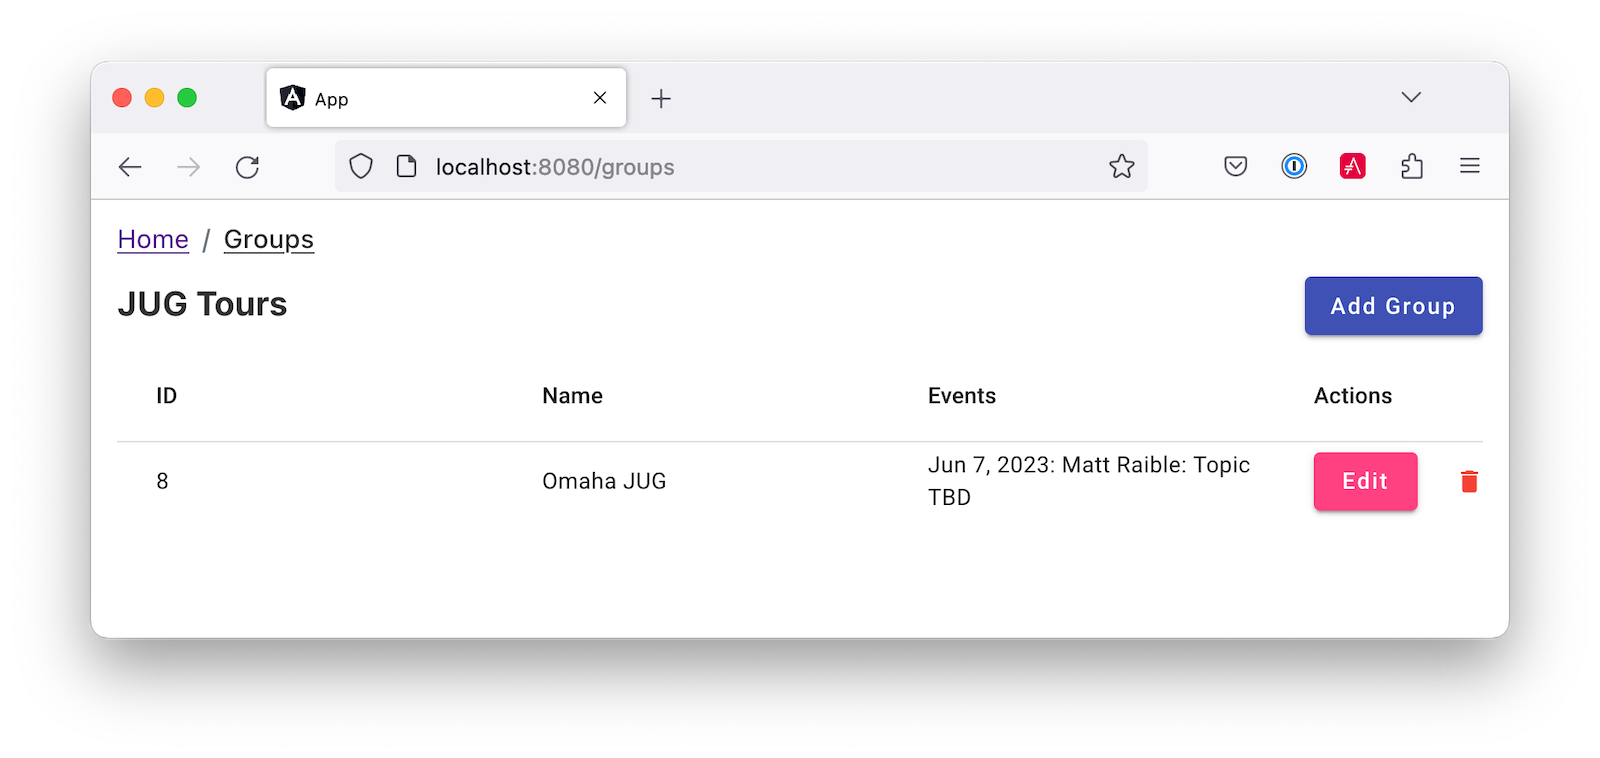
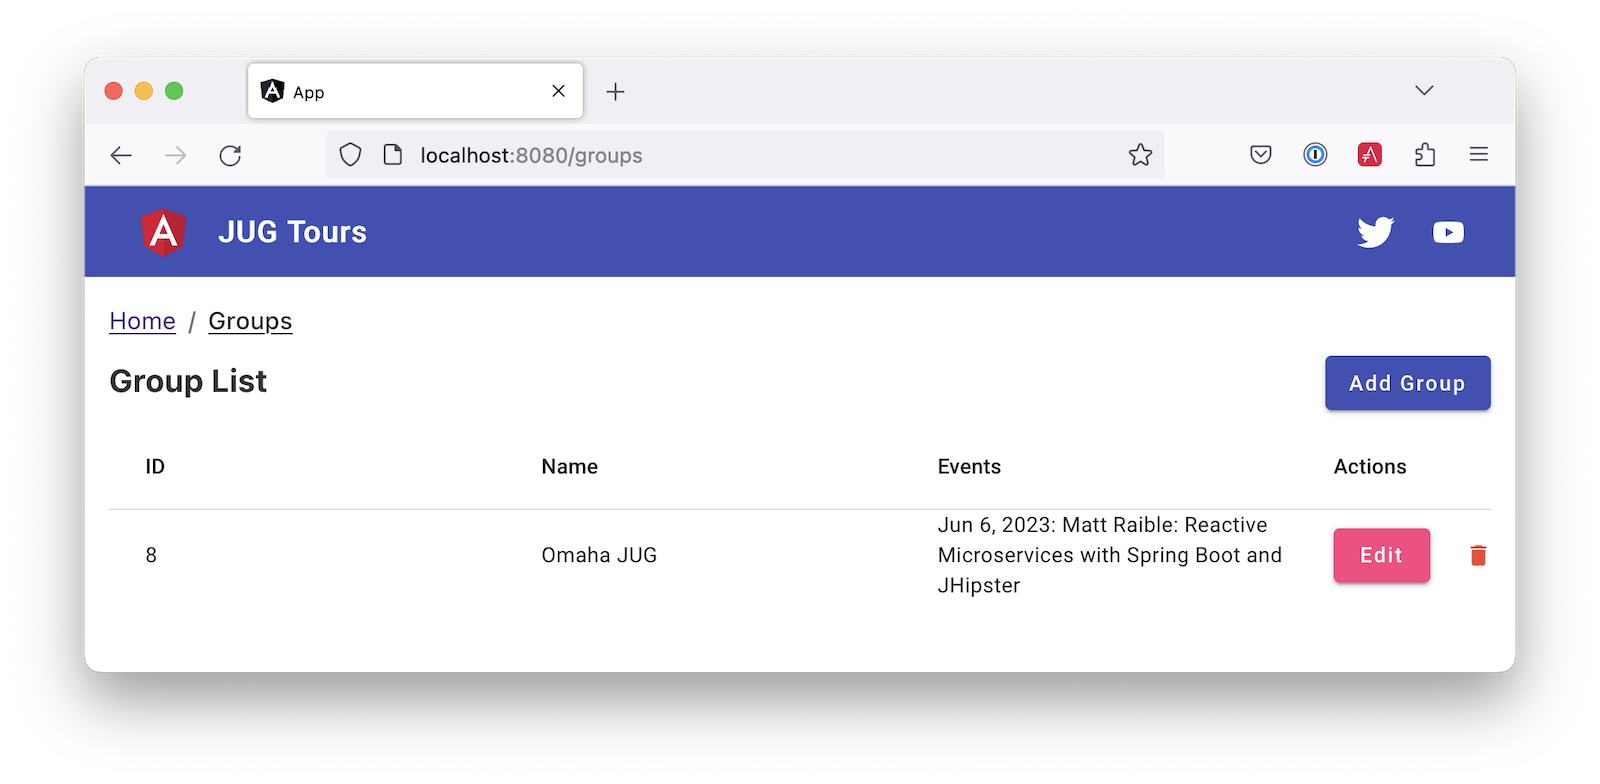
Upgrade Angular + Spring Boot post to Spring Boot 3.1

diff --git a/_source/_posts/2023-05-18-spring-boot-angular-crud.md b/_source/_posts/2023-05-18-spring-boot-angular-crud.md
@@ -100,8 +100,6 @@ Once you're authenticated, you'll see a link to manage your JUG Tours.
 
 You should be able to add new groups and events, as well as edit and delete them.
 
-// todo: change date and topic in screenshot below
-
 {% img blog/spring-boot-angular/jug-tours-list.png alt:"List of JUG Tours" width:"800" %}{: .center-image }
 
 ### Verify Cypress end-to-end tests pass
@@ -1023,8 +1021,6 @@ form, h2 {
 
 Now, with your Angular app running, you should be able to add and edit groups! Yaasss! 👏👏👏
 
-// todo: update screenshot to include topic
-
 {% img blog/spring-boot-angular/group-edit.png alt:"Edit a group and add events" width:"800" %}{: .center-image }
 
 To make the navbar at the top use Angular Material colors, update `app.component.html` with the following:
@@ -1702,7 +1698,7 @@ npx cypress run --browser electron --config baseUrl=http://localhost:8080
 
 I hope this tutorial has helped you learn how to build secure Angular and Spring Boot apps. Using OpenID Connect is a recommended practice for authenticating full-stack apps like this one, and Auth0 makes it easy to do. Adding CSRF protection and packaging your Spring Boot + Angular app as a single artifact is super cool too!
 
-We've written related tutorials about Spring Boot, Angular, and JHipster:
+We've written some other fun Spring Boot, Angular, and JHipster tutorials. Check them out!
 
 - [Build a Simple CRUD App with Spring Boot and Vue.js](https://auth0.com/blog/build-crud-spring-and-vue/)
 - [Use React and Spring Boot to Build a Simple CRUD App](https://auth0.com/blog/simple-crud-react-and-spring-boot/)
@@ -1712,6 +1708,6 @@ We've written related tutorials about Spring Boot, Angular, and JHipster:
 I've also written a couple of InfoQ mini-books that you might find useful:
 
 - [The JHipster Mini-Book](https://www.infoq.com/minibooks/jhipster-mini-book/): Shows how I built [21-Points Health](https://www.21-points.com) with JHipster (Angular, Spring Boot, Bootstrap, and more).
-- [The Angular Mini-Book](https://www.infoq.com/minibooks/angular-mini-book/): An in-depth guide to Angular, Bootstrap, Spring Boot, and DevOpts with several cloud deployment guides.
+- [The Angular Mini-Book](https://www.infoq.com/minibooks/angular-mini-book/): A practical guide to Angular, Bootstrap, and Spring Boot with recommended security practices and several cloud deployment guides.
 
-If you have any questions, please leave a comment below. If you want to see the code for this project, check out its [GitHub repo](https://github.com/oktadev/auth0-spring-boot-angular-crud-example). Follow us on [Twitter](https://twitter.com/oktadev) and [YouTube](https://youtube.com/oktadev) for more content like this.
+If you have any questions, please leave a comment below. If you want to see the completed code for this tutorial, check out its [GitHub repo](https://github.com/oktadev/auth0-spring-boot-angular-crud-example). Follow us on [Twitter](https://twitter.com/oktadev) and [YouTube](https://youtube.com/oktadev) for more content like this.
